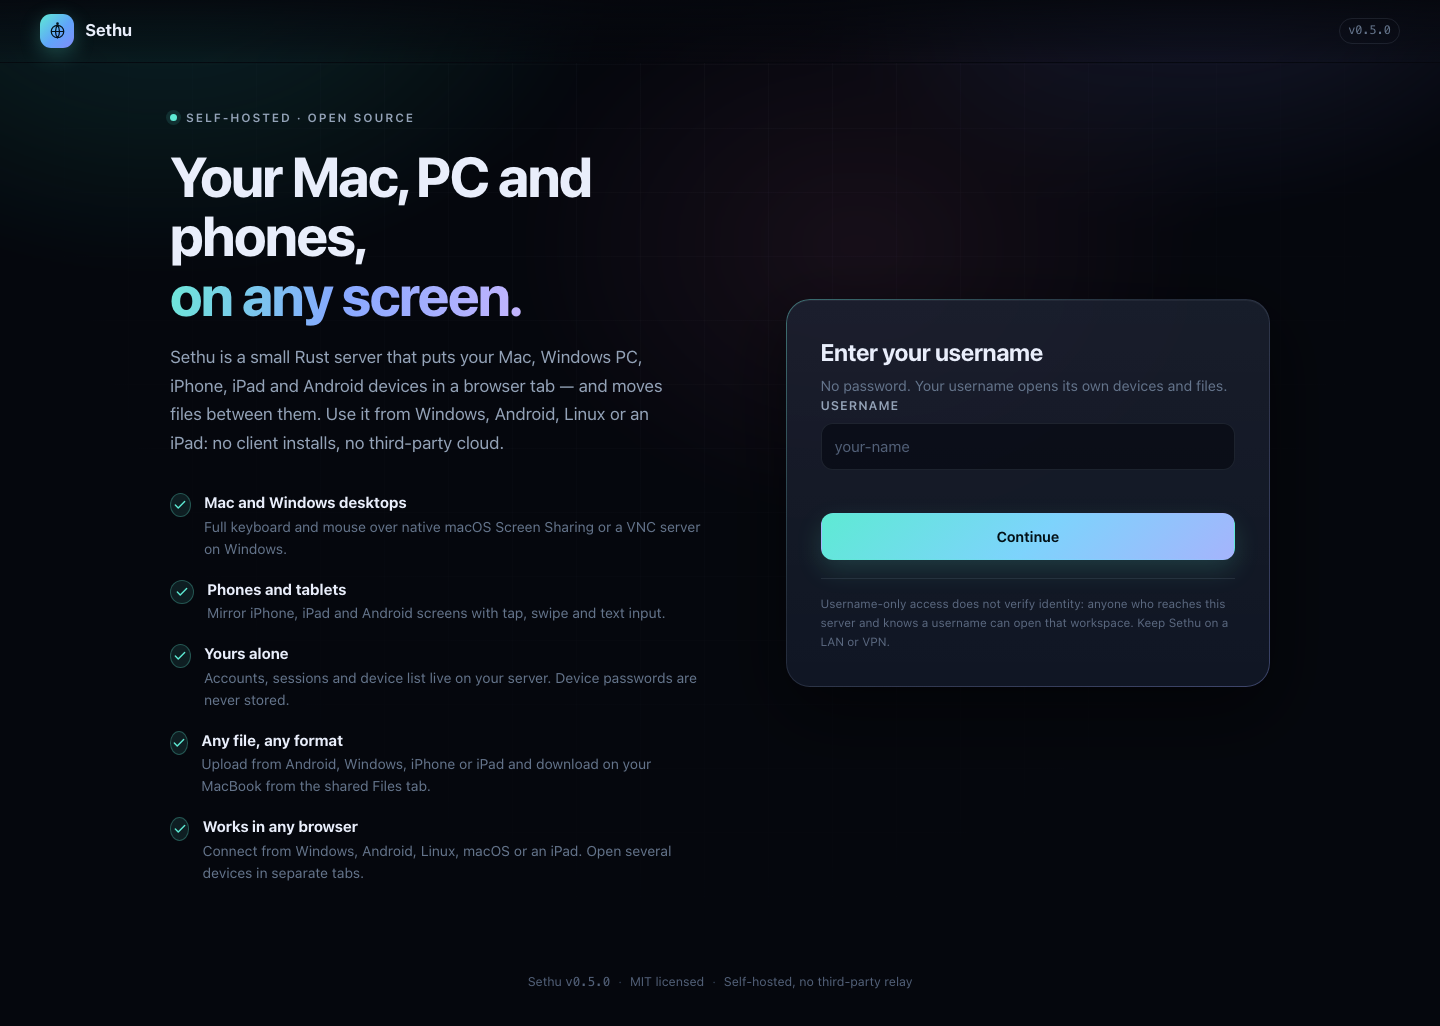
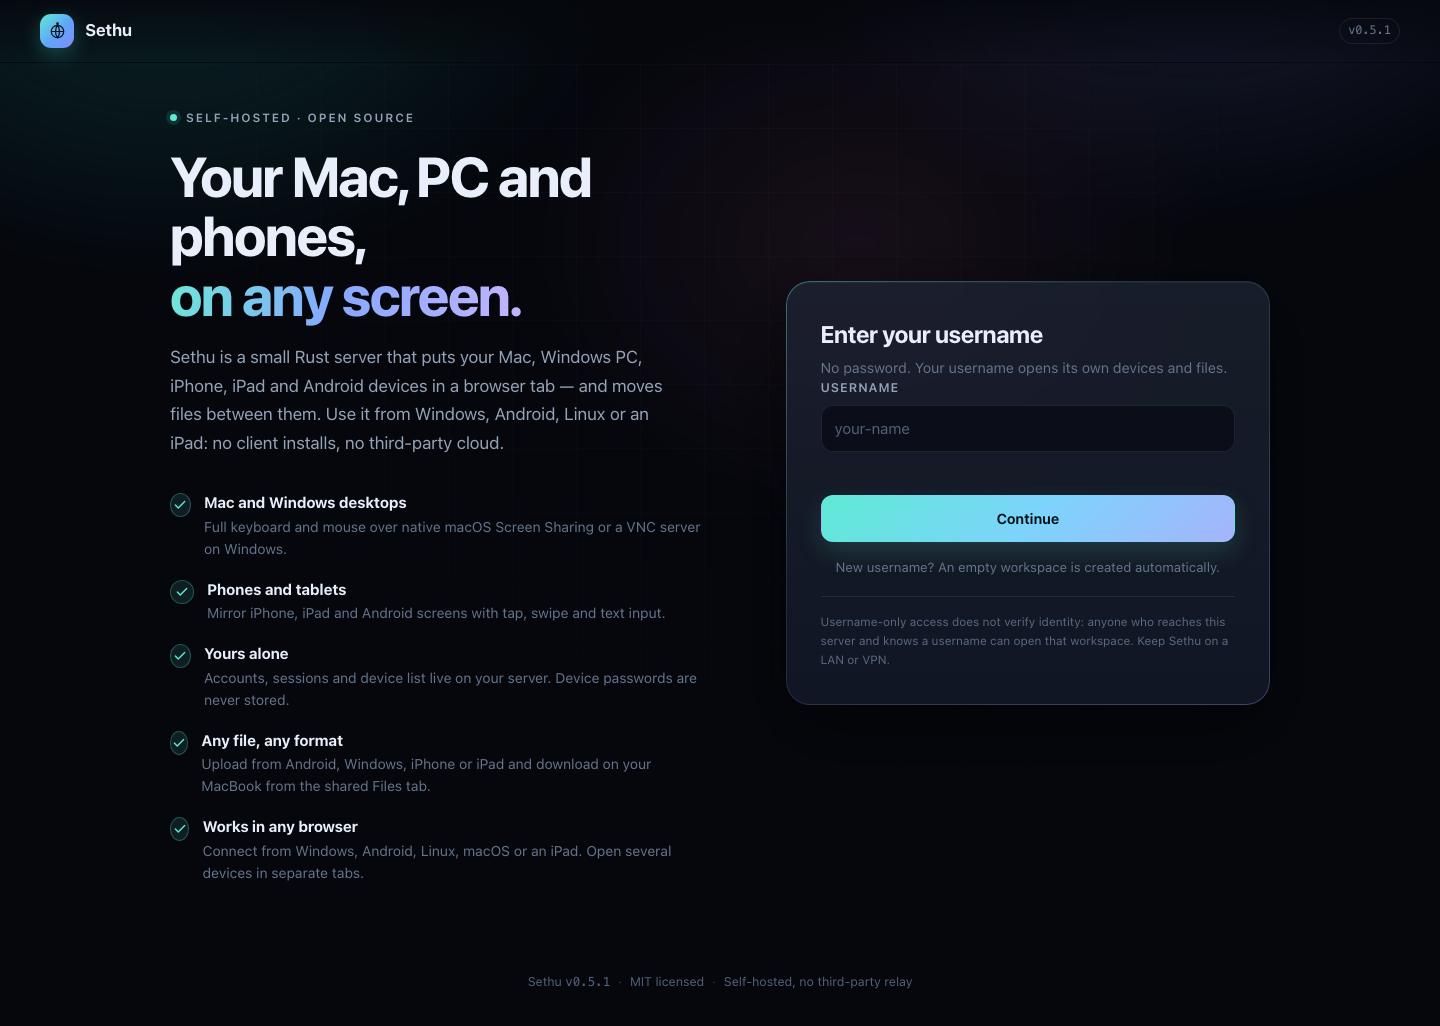
remove password field from username mode and fix asset caching

Changed region(s): [[0.5312, 0.4678, 0.9062, 0.6862], [0.5312, 0.2495, 0.9062, 0.4366]]

diff --git a/web/app.js b/web/app.js
@@ -101,13 +101,37 @@ function toast(message, kind = "info") {
 
 const authForm = $("#auth-form");
 const authEmail = $("#auth-email");
-const authPassword = $("#auth-password");
 const authError = $("#auth-error");
 const authSubmit = $("#auth-submit");
-const registerTab = $("#register-tab");
+const authTabsSlot = $("#auth-tabs-slot");
+const authPasswordSlot = $("#auth-password-slot");
+
+const passwordInput = () => $("#auth-password");
+
+function secureUiInstalled() {
+  return Boolean($("#auth-tabs"));
+}
+
+function installSecureUi() {
+  if (secureUiInstalled()) return;
+  authTabsSlot.replaceChildren($("#auth-tabs-template").content.cloneNode(true));
+  authPasswordSlot.replaceChildren($("#auth-password-template").content.cloneNode(true));
+  const registerButton = document.querySelector('.tab[data-tab="register"]');
+  if (registerButton) registerButton.classList.toggle("hidden", !state.registration);
+}
+
+function removeSecureUi() {
+  authTabsSlot.replaceChildren();
+  authPasswordSlot.replaceChildren();
+}
+
+authTabsSlot.addEventListener("click", (event) => {
+  const button = event.target.closest(".tab");
+  if (button) setTab(button.dataset.tab);
+});
 
 function setTab(tab) {
-  if (state.usernameOnly) return;
+  if (!secureUiInstalled()) return;
   state.tab = tab === "register" && state.registration ? "register" : "login";
   document.querySelectorAll(".tab").forEach((button) => {
     const selected = button.dataset.tab === state.tab;
@@ -121,7 +145,10 @@ function setTab(tab) {
     ? "This account owns the Sethu server."
     : "Welcome back. Pick up where you left off.";
   authSubmit.textContent = registering ? "Create account" : "Sign in";
-  authPassword.setAttribute("autocomplete", registering ? "new-password" : "current-password");
+  const password = passwordInput();
+  if (password) {
+    password.setAttribute("autocomplete", registering ? "new-password" : "current-password");
+  }
   $("#auth-hint").textContent = registering
     ? "Use at least 10 characters. There is no password reset — store it safely."
     : "First run? Create the account that owns this server.";
@@ -130,9 +157,8 @@ function setTab(tab) {
 
 function configureAuthMode() {
   const usernameMode = state.usernameOnly;
-  $("#auth-tabs").classList.toggle("hidden", usernameMode);
-  $("#auth-password-field").classList.toggle("hidden", usernameMode);
-  authPassword.required = !usernameMode;
+  if (usernameMode) removeSecureUi();
+  else installSecureUi();
 
   authEmail.type = usernameMode ? "text" : "email";
   authEmail.autocomplete = usernameMode ? "username" : "email";
@@ -155,9 +181,6 @@ function configureAuthMode() {
     setTab(state.tab);
   }
 }
-
-registerTab.addEventListener("click", () => setTab("register"));
-$('.tab[data-tab="login"]').addEventListener("click", () => setTab("login"));
 
 authForm.addEventListener("submit", async (event) => {
   event.preventDefault();
@@ -192,7 +215,7 @@ authForm.addEventListener("submit", async (event) => {
   }
 
   const email = authEmail.value.trim();
-  const password = authPassword.value;
+  const password = passwordInput()?.value || "";
   if (!email || !password) {
     authError.textContent = "Enter your email and password.";
     return;
@@ -213,7 +236,7 @@ authForm.addEventListener("submit", async (event) => {
     toast(registering ? "Account created. Welcome to Sethu." : "Welcome back.", "success");
   } catch (error) {
     authError.textContent = error.message;
-    authPassword.select();
+    passwordInput()?.select();
   } finally {
     authSubmit.disabled = false;
     authSubmit.textContent = state.tab === "register" ? "Create account" : "Sign in";
@@ -247,8 +270,7 @@ function showAuth() {
     $("#dashboard-view").classList.remove("hidden");
     return;
   }
-  registerTab.classList.toggle("hidden", !state.registration);
-  $("#auth-hint").classList.toggle("hidden", !state.registration);
+  $("#auth-hint").classList.toggle("hidden", !state.registration && !state.usernameOnly);
   configureAuthMode();
   if (!state.registration && !state.usernameOnly) setTab("login");
   document.title = state.usernameOnly ? "Sethu — enter username" : "Sethu — sign in";

diff --git a/web/index.html b/web/index.html
@@ -166,22 +166,16 @@
             <p id="auth-subtitle">Welcome back. Pick up where you left off.</p>
           </div>
 
-          <div id="auth-tabs" class="tabs" role="tablist" aria-label="Authentication">
-            <button class="tab is-active" type="button" role="tab" aria-selected="true" data-tab="login">Sign in</button>
-            <button class="tab" type="button" role="tab" aria-selected="false" data-tab="register" id="register-tab">Create account</button>
-          </div>
+          <div id="auth-tabs-slot"></div>
 
           <form id="auth-form" novalidate>
             <label class="field">
               <span>Email</span>
               <input id="auth-email" type="email" autocomplete="email" placeholder="you@example.com" required />
             </label>
-            <label id="auth-password-field" class="field">
-              <span>Password</span>
-              <input id="auth-password" type="password" autocomplete="current-password" placeholder="At least 10 characters" minlength="10" required />
-            </label>
+            <div id="auth-password-slot"></div>
             <p id="auth-error" class="form-error" role="alert"></p>
-            <button id="auth-submit" class="btn btn-primary btn-block" type="submit">Sign in</button>
+            <button id="auth-submit" class="btn btn-primary btn-block" type="submit">Continue</button>
           </form>
 
           <p id="auth-hint" class="auth-hint">First run? Create the account that owns this server.</p>
@@ -427,6 +421,20 @@
         </div>
       </form>
     </dialog>
+
+    <template id="auth-tabs-template">
+      <div id="auth-tabs" class="tabs" role="tablist" aria-label="Authentication">
+        <button class="tab is-active" type="button" role="tab" aria-selected="true" data-tab="login">Sign in</button>
+        <button class="tab" type="button" role="tab" aria-selected="false" data-tab="register" id="register-tab">Create account</button>
+      </div>
+    </template>
+
+    <template id="auth-password-template">
+      <label id="auth-password-field" class="field">
+        <span>Password</span>
+        <input id="auth-password" type="password" autocomplete="current-password" placeholder="At least 10 characters" minlength="10" required />
+      </label>
+    </template>
 
     <div id="toasts" class="toasts" role="status" aria-live="polite"></div>
 

diff --git a/crates/sethu-server/src/web.rs b/crates/sethu-server/src/web.rs
@@ -36,7 +36,7 @@ pub async fn serve(State(state): State<AppState>, req: Request) -> Response {
     }
 
     match assets::lookup(&path) {
-        Some((mime, bytes)) => with_cache(mime, bytes.to_vec(), &path, is_immutable(&path)),
+        Some((mime, bytes)) => with_cache(mime, bytes.to_vec(), &path, false),
         None => {
             // Optional third-party assets (vendored noVNC) live outside the
             // binary so they can be dropped in without a rebuild.
@@ -61,7 +61,7 @@ async fn read_vendor(state: &AppState, path: &str) -> Option<Response> {
     let bytes = tokio::fs::read(state.cfg.vendor_dir.join(relative))
         .await
         .ok()?;
-    Some(with_cache(mime_for(relative), bytes, path, true))
+    Some(with_cache(mime_for(relative), bytes, path, false))
 }
 
 fn with_cache(mime: &str, bytes: Vec<u8>, path: &str, immutable: bool) -> Response {
@@ -83,13 +83,6 @@ fn with_cache(mime: &str, bytes: Vec<u8>, path: &str, immutable: bool) -> Respon
         HeaderValue::from_static("nosniff"),
     );
     response
-}
-
-fn is_immutable(path: &str) -> bool {
-    matches!(
-        path,
-        "/styles.css" | "/app.js" | "/viewer.js" | "/viewer-vnc.js" | "/viewer-ios.js"
-    )
 }
 
 fn not_found() -> Response {

diff --git a/CHANGELOG.md b/CHANGELOG.md
@@ -4,6 +4,16 @@ All notable changes to Sethu are documented here. The format follows
 [Keep a Changelog](https://keepachangelog.com/en/1.1.0/) and the project adheres
 to [Semantic Versioning](https://semver.org/).
 
+## [0.5.1] — 2026-11-10
+
+### Fixed
+
+- The password input is now **removed from the DOM** in username mode instead
+  of merely hidden. Secure mode injects the password field and tabs from a
+  template only when `SETHU_AUTH=required`.
+- Frontend assets are served with `no-cache` (revalidated via ETag) instead of
+  `immutable`, so a browser cannot keep an old login UI after an upgrade.
+
 ## [0.5.0] — 2026-11-10
 
 ### Added
@@ -132,3 +142,4 @@ Initial public release.
 [0.3.0]: https://github.com/your-org/sethu/releases/tag/v0.3.0
 [0.4.0]: https://github.com/your-org/sethu/releases/tag/v0.4.0
 [0.5.0]: https://github.com/your-org/sethu/releases/tag/v0.5.0
+[0.5.1]: https://github.com/your-org/sethu/releases/tag/v0.5.1
